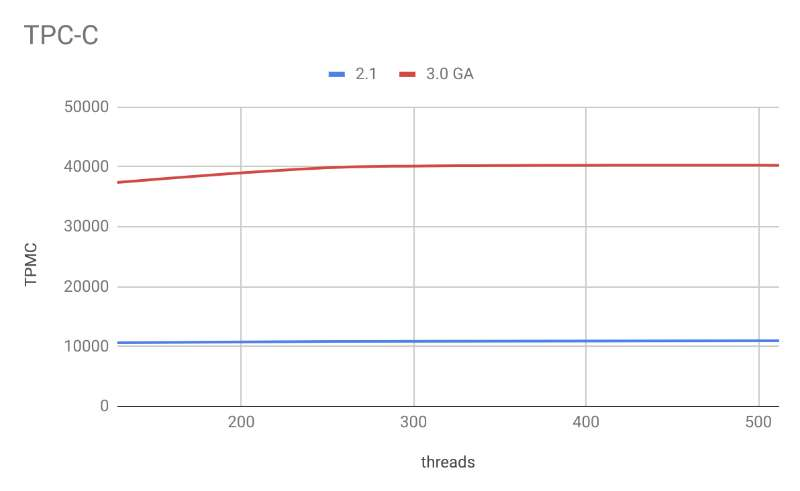
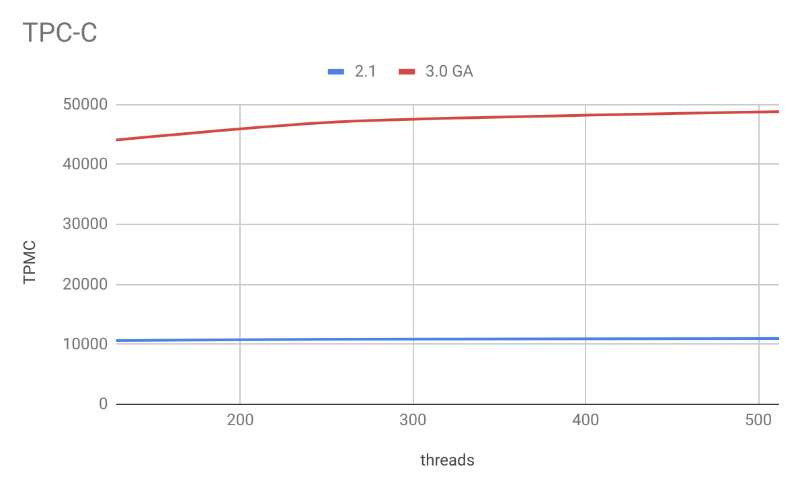
update config and result picture

diff --git a/dev/benchmark/tpcc.md b/dev/benchmark/tpcc.md
@@ -83,13 +83,13 @@ The default TiKV configuration is used in both v2.1 and v3.0.
 
 | Version | Threads | tpmC |
 | :-- | :-- | :-- |
-| v3.0 | 128  | 37400.76 |
-| v3.0 | 256  | 39931.79  |
-| v3.0 | 512  | 40272.34 |
+| v3.0 | 128  | 44068.55 |
+| v3.0 | 256  | 47094.06  |
+| v3.0 | 512  | 48808.65 |
 | v2.1 | 128  | 10641.71  |
 | v2.1 | 256  | 10861.62 |
 | v2.1 | 512  | 10965.39 |
 
 ![point select](/media/tpcc-2.1-3.0.png)
 
-According to the testing statistics, the performance of TiDB 3.0 **has increased by 400%** than that of TiDB 2.1.
+According to the testing statistics, the performance of TiDB 3.0 **has increased by 450%** than that of TiDB 2.1.

diff --git a/v3.0/benchmark/tpcc.md b/v3.0/benchmark/tpcc.md
@@ -83,13 +83,13 @@ The default TiKV configuration is used in both v2.1 and v3.0.
 
 | Version | Threads | tpmC |
 | :-- | :-- | :-- |
-| v3.0 | 128  | 37400.76 |
-| v3.0 | 256  | 39931.79  |
-| v3.0 | 512  | 40272.34 |
+| v3.0 | 128  | 44068.55 |
+| v3.0 | 256  | 47094.06  |
+| v3.0 | 512  | 48808.65 |
 | v2.1 | 128  | 10641.71  |
 | v2.1 | 256  | 10861.62 |
 | v2.1 | 512  | 10965.39 |
 
 ![point select](/media/tpcc-2.1-3.0.png)
 
-According to the testing statistics, the performance of TiDB 3.0 **has increased by 400%** than that of TiDB 2.1.
+According to the testing statistics, the performance of TiDB 3.0 **has increased by 450%** than that of TiDB 2.1.
